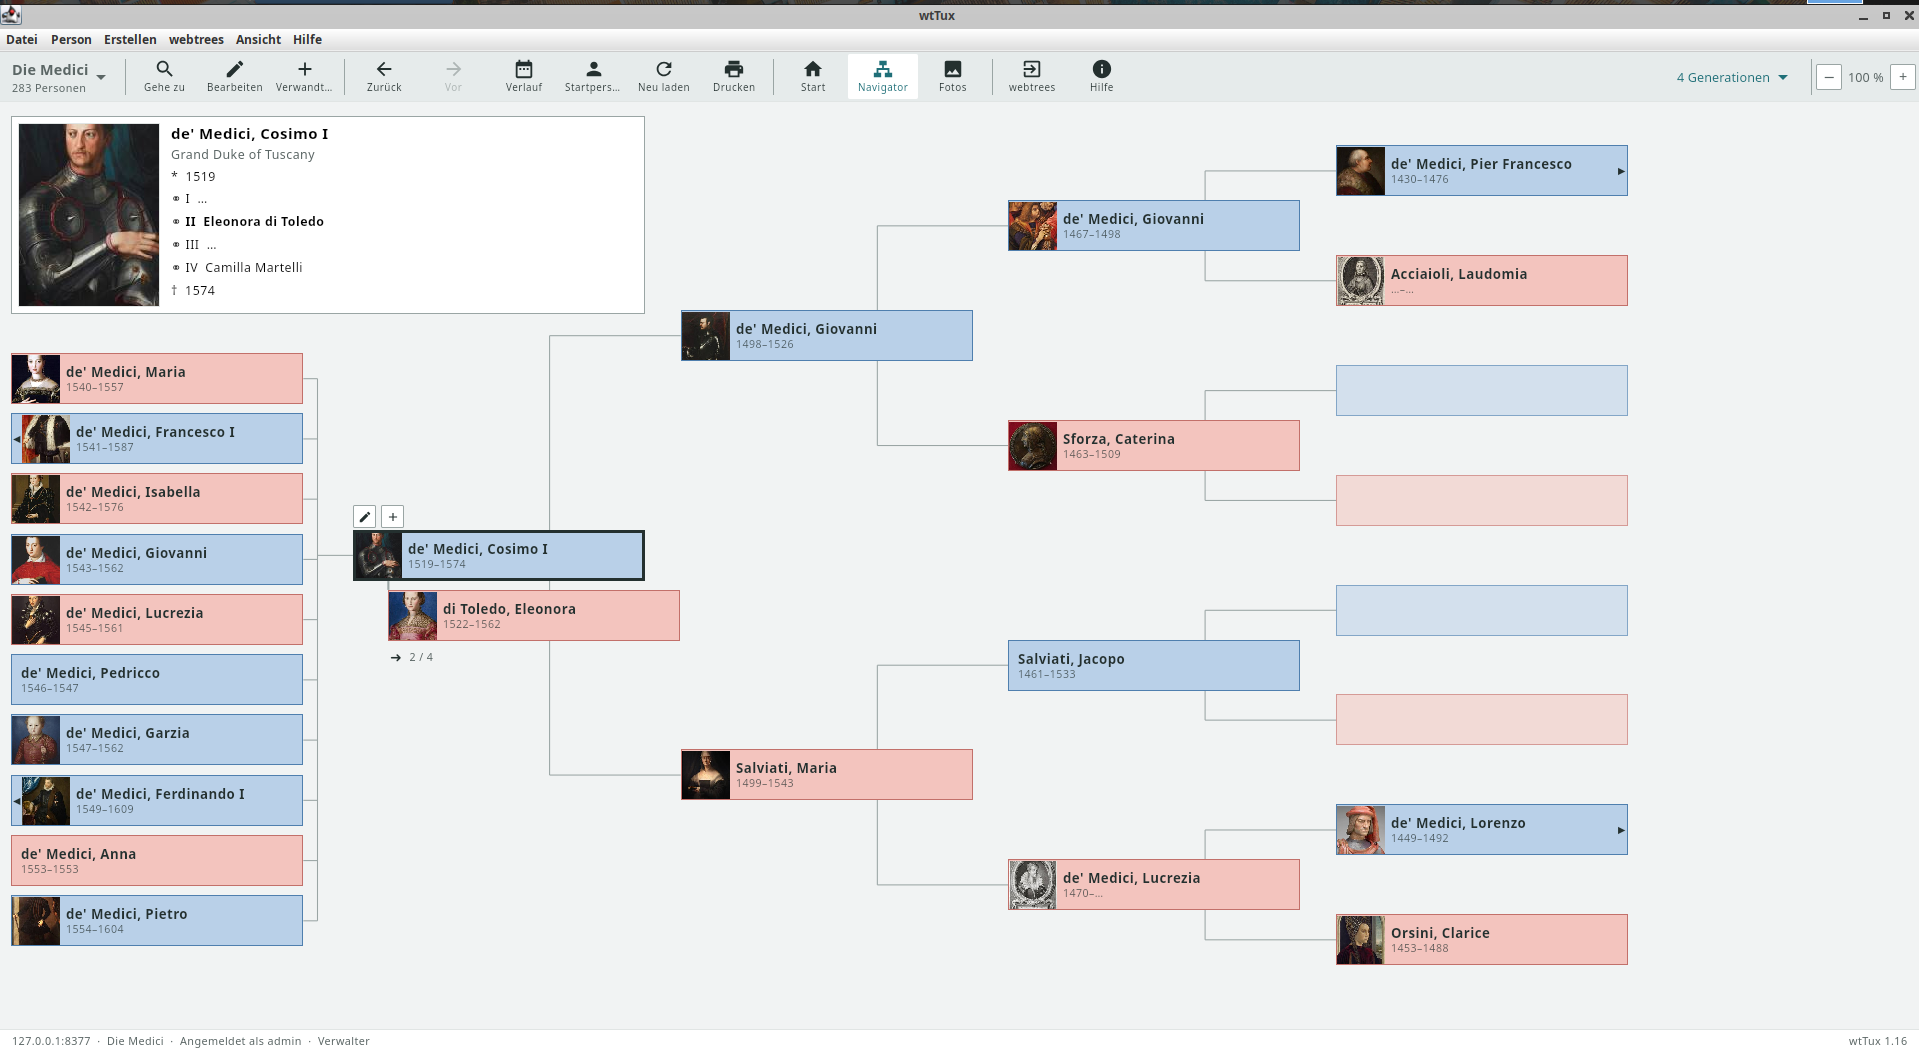
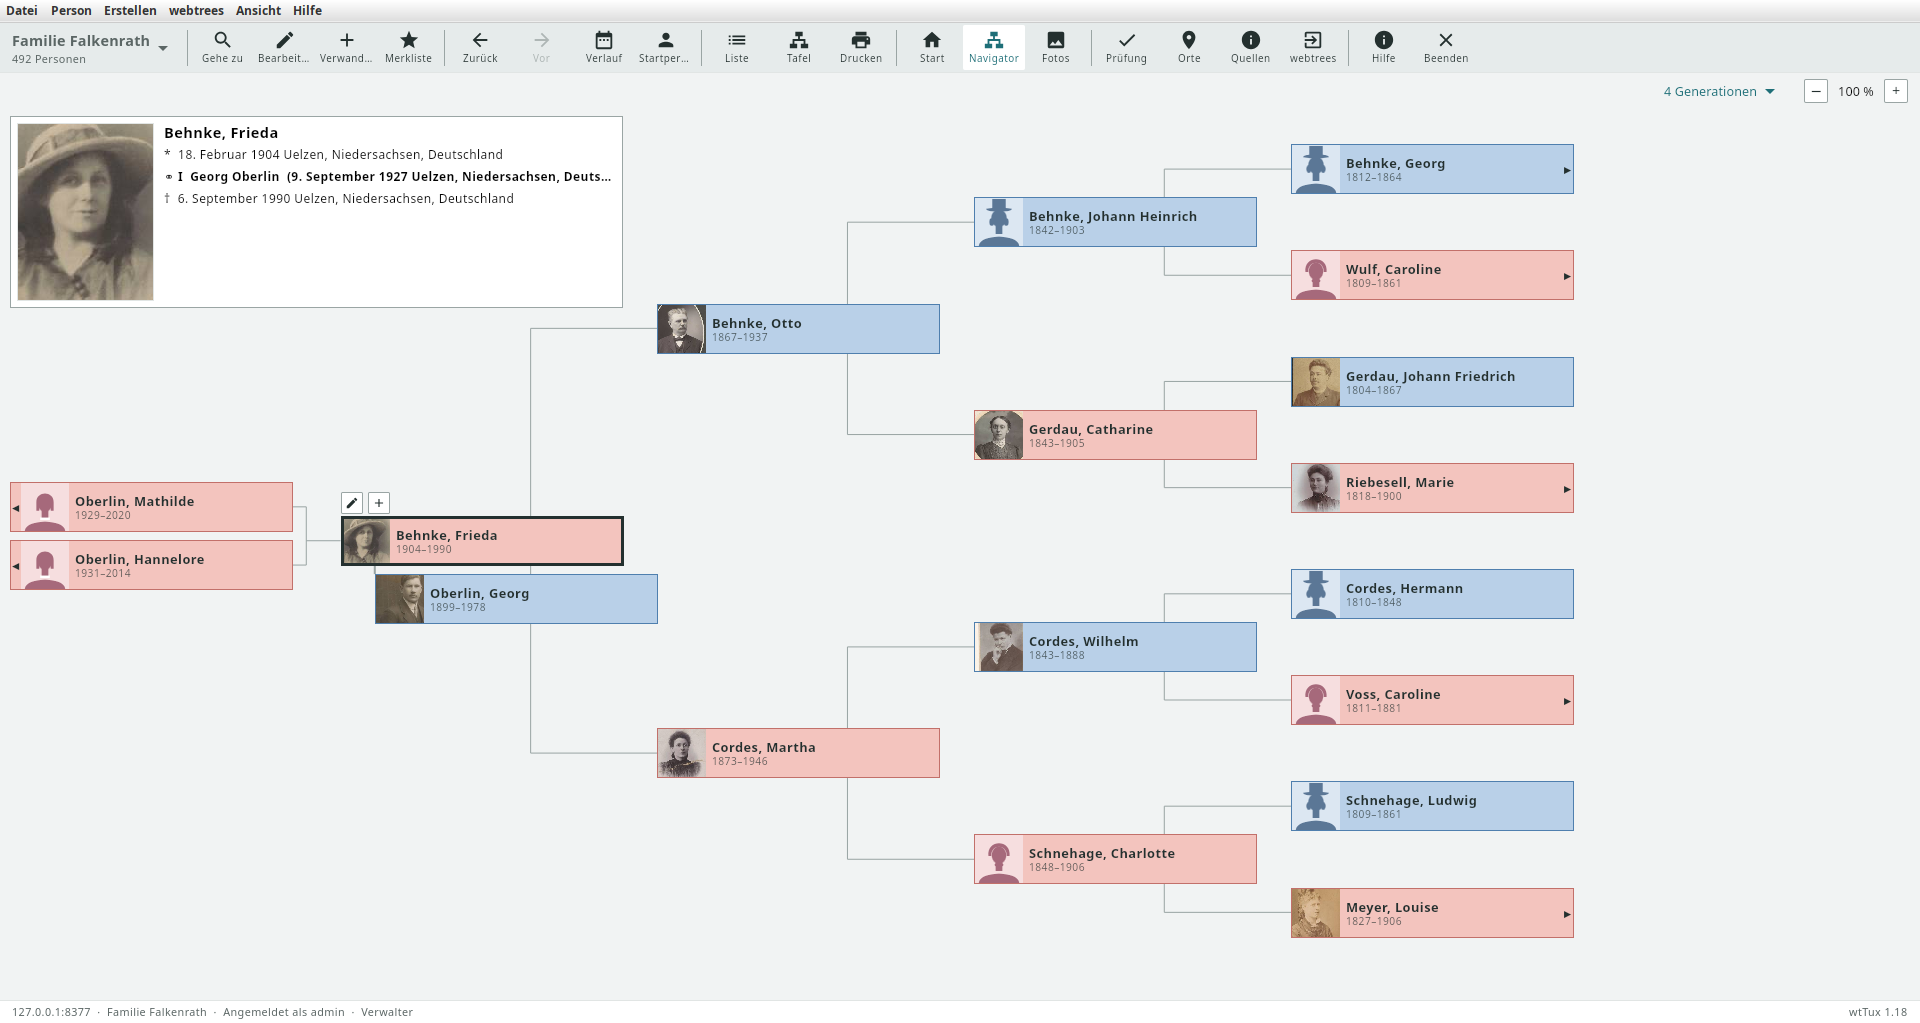
README: Stammtafel, Ahnentafel und wtTux-Navigator aus dem Demo-Stammbaum Falkenrath; Medici nur noch bei wtWin-Navigator und Personenblatt

diff --git a/README.md b/README.md
@@ -17,7 +17,7 @@
   <br><b>wtWin unter Windows</b> – derselbe Stammbaum wie in wtAnd, aufgebaut wie ein klassisches Genealogie-Programm.
 </p>
 
-| <img src="docs/screenshots/windows-personenblatt.jpg" alt="wtWin: Personenblatt von Cosimo I de' Medici" width="100%"> | <img src="docs/screenshots/desktop-navigator.png" alt="wtTux unter Linux: Navigator" width="100%"> |
+| <img src="docs/screenshots/windows-personenblatt.jpg" alt="wtWin: Personenblatt von Cosimo I de' Medici" width="100%"> | <img src="docs/screenshots/desktop-navigator.png" alt="wtTux unter Linux: Navigator mit Frieda Behnke und vier Generationen Vorfahren" width="100%"> |
 | :-: | :-: |
 | **Personenblatt** – Ereignisse als Tabelle, die Familie daneben, Drucken und PDF | **wtTux unter Linux** – dasselbe Programm |
 
@@ -26,13 +26,13 @@
   <br><b>Tafel erstellen</b> – Tafelart, Generationen, Gestaltung (Pergament, Klassisch, Farbig, Schwarzweiß), Bilder und Kekule-Nummern; die Vorschau ist das fertige Blatt, zum Drucken oder als PDF.
 </p>
 
-| <img src="docs/screenshots/tafel-stammtafel.jpg" alt="Stammtafel der Nachfahren von Cosimo de' Medici" width="100%"> | <img src="docs/screenshots/tafel-ahnentafel.jpg" alt="Ahnentafel von Cosimo I de' Medici mit Kekule-Nummern" width="100%"> |
+| <img src="docs/screenshots/tafel-stammtafel.jpg" alt="Stammtafel der Nachfahren von Johann Heinrich Falkenrath über vier Generationen" width="100%"> | <img src="docs/screenshots/tafel-ahnentafel.jpg" alt="Ahnentafel von Jonas Falkenrath über fünf Generationen mit Kekule-Nummern" width="100%"> |
 | :-: | :-: |
 | **Stammtafel** – alle Nachfahren auf einem Blatt | **Ahnentafel** – Proband unten, Kekule-Nummern |
 | <img src="docs/screenshots/tafel-ahnenkreis.jpg" alt="Ahnenkreis von Jonas Falkenrath über sieben Generationen, farbig nach Großeltern-Linien" width="100%"> | <img src="docs/screenshots/tafel-faechertafel.jpg" alt="Fächertafel von Jonas Falkenrath über sechs Generationen" width="100%"> |
 | **Ahnenkreis** – sieben Generationen, die vier Großeltern-Linien in Farbe, Ahnenschwund als „= 74“ | **Fächertafel** – der Halbkreis, hier sechs Generationen |
 
-<p align="center"><sub>Historischer Stammbaum der Medici. Porträt Caterina Sforza: <a href="https://commons.wikimedia.org/wiki/File:Italia,_caterina_riario_di_forl%C3%AC,_riproduzione_della_medaglia_del_1488_ca..JPG">Sailko</a>, <a href="https://creativecommons.org/licenses/by-sa/3.0/">CC BY-SA 3.0</a>; alle anderen Porträts gemeinfrei (Wikimedia Commons). Ahnenkreis und Fächertafel: frei erfundener Demo-Stammbaum <a href="demo-tree/">Familie Falkenrath</a> (CC0).</sub></p>
+<p align="center"><sub>Tafeln und wtTux-Navigator: frei erfundener Demo-Stammbaum <a href="demo-tree/">Familie Falkenrath</a> (CC0), Fotos unbekannter Personen aus dem Rijksmuseum Amsterdam (CC0). wtWin-Navigator und Personenblatt: historischer Stammbaum der Medici; Porträt Caterina Sforza: <a href="https://commons.wikimedia.org/wiki/File:Italia,_caterina_riario_di_forl%C3%AC,_riproduzione_della_medaglia_del_1488_ca..JPG">Sailko</a>, <a href="https://creativecommons.org/licenses/by-sa/3.0/">CC BY-SA 3.0</a>, alle anderen gemeinfrei (Wikimedia Commons).</sub></p>
 
 **Android:** Die APK ist signiert. Außerhalb des Play Store muss Android einmalig erlauben, dass der Browser Apps installiert.  
 **Linux:** Das Paket mit `sudo apt install ./wttux_…_amd64.deb` installieren.  

diff --git a/README.en.md b/README.en.md
@@ -17,7 +17,7 @@
   <br><b>wtWin on Windows</b> – the same family tree as in wtAnd, laid out like a classic genealogy program.
 </p>
 
-| <img src="docs/screenshots/windows-personenblatt.jpg" alt="wtWin: person sheet of Cosimo I de' Medici" width="100%"> | <img src="docs/screenshots/desktop-navigator.png" alt="wtTux on Linux: navigator" width="100%"> |
+| <img src="docs/screenshots/windows-personenblatt.jpg" alt="wtWin: person sheet of Cosimo I de' Medici" width="100%"> | <img src="docs/screenshots/desktop-navigator.png" alt="wtTux on Linux: navigator with Frieda Behnke and four generations of ancestors" width="100%"> |
 | :-: | :-: |
 | **Person sheet** – events as a table, the family beside them, print and PDF | **wtTux on Linux** – the same program |
 
@@ -26,13 +26,13 @@
   <br><b>Charts</b> – chart type, generations, style (parchment, classic, colour, black and white), pictures and Kekule numbers; the preview is the finished sheet, ready to print or save as PDF.
 </p>
 
-| <img src="docs/screenshots/tafel-stammtafel.jpg" alt="Descendant chart of Cosimo de' Medici" width="100%"> | <img src="docs/screenshots/tafel-ahnentafel.jpg" alt="Ancestor chart of Cosimo I de' Medici with Kekule numbers" width="100%"> |
+| <img src="docs/screenshots/tafel-stammtafel.jpg" alt="Descendant chart of Johann Heinrich Falkenrath over four generations" width="100%"> | <img src="docs/screenshots/tafel-ahnentafel.jpg" alt="Ancestor chart of Jonas Falkenrath over five generations with Kekule numbers" width="100%"> |
 | :-: | :-: |
 | **Descendant chart** – all descendants on one sheet | **Ancestor chart** – root person at the bottom, Kekule numbers |
 | <img src="docs/screenshots/tafel-ahnenkreis.jpg" alt="Ancestor circle of Jonas Falkenrath over seven generations, coloured by grandparent lines" width="100%"> | <img src="docs/screenshots/tafel-faechertafel.jpg" alt="Fan chart of Jonas Falkenrath over six generations" width="100%"> |
 | **Ancestor circle** – seven generations, the four grandparent lines in colour, pedigree collapse as “= 74” | **Fan chart** – the half circle, here six generations |
 
-<p align="center"><sub>Historical tree of the Medici. Portrait of Caterina Sforza: <a href="https://commons.wikimedia.org/wiki/File:Italia,_caterina_riario_di_forl%C3%AC,_riproduzione_della_medaglia_del_1488_ca..JPG">Sailko</a>, <a href="https://creativecommons.org/licenses/by-sa/3.0/">CC BY-SA 3.0</a>; all other portraits public domain (Wikimedia Commons). Ancestor circle and fan chart: fictitious demo tree <a href="demo-tree/">Familie Falkenrath</a> (CC0).</sub></p>
+<p align="center"><sub>Charts and wtTux navigator: fictitious demo tree <a href="demo-tree/">Familie Falkenrath</a> (CC0), photos of unknown people from the Rijksmuseum Amsterdam (CC0). wtWin navigator and person sheet: historical tree of the Medici; portrait of Caterina Sforza: <a href="https://commons.wikimedia.org/wiki/File:Italia,_caterina_riario_di_forl%C3%AC,_riproduzione_della_medaglia_del_1488_ca..JPG">Sailko</a>, <a href="https://creativecommons.org/licenses/by-sa/3.0/">CC BY-SA 3.0</a>, all others public domain (Wikimedia Commons).</sub></p>
 
 **Android:** the APK is signed. To install outside the Play Store, Android asks once to allow your browser to install apps.  
 **Linux:** install the package with `sudo apt install ./wttux_…_amd64.deb`.  
